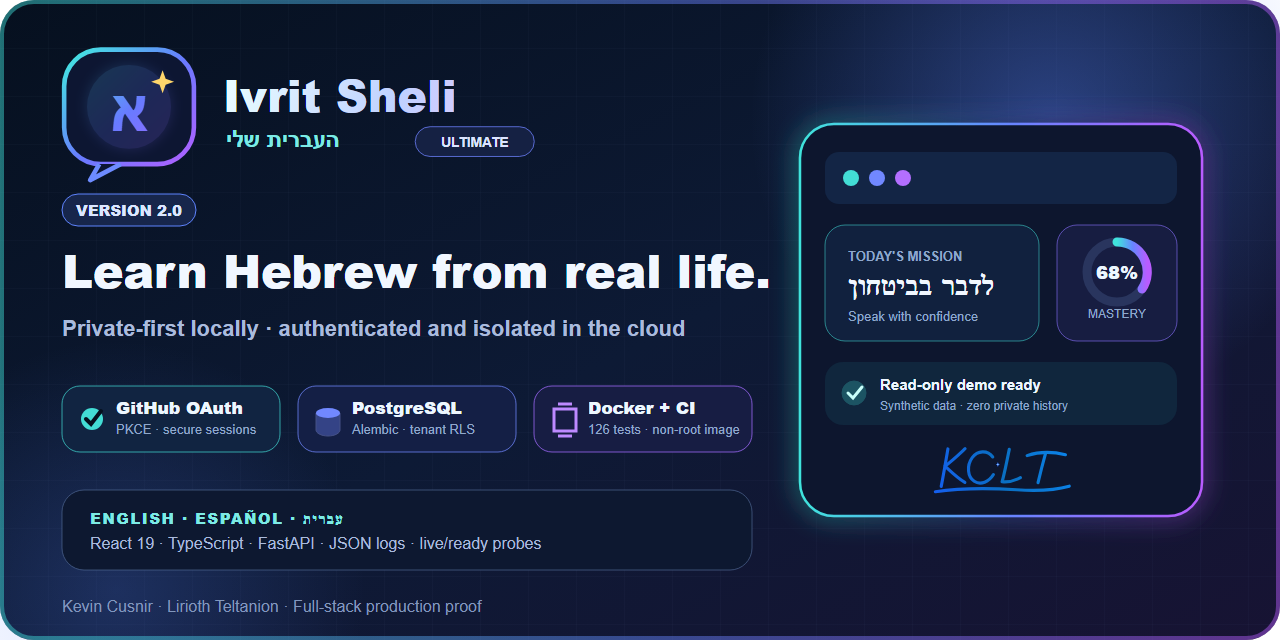
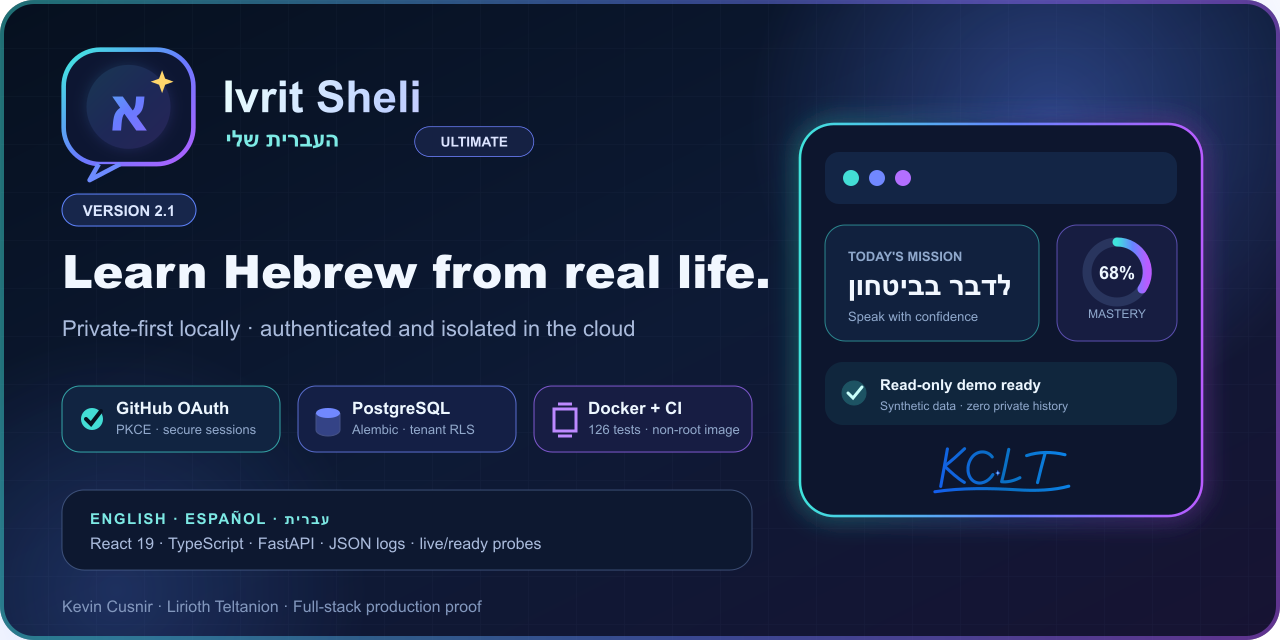
fix(release): ship Ivrit Sheli 2.1 Railway compatibility

diff --git a/frontend/src/App.tsx b/frontend/src/App.tsx
@@ -248,7 +248,7 @@ export default function App(): React.JSX.Element {
       <aside className="sidebar">
         <div className="brand-lockup">
           <img src="/icons/app-icon.svg" alt="" />
-          <div><strong>{t('appName')}</strong><span>CLOUD 2.0</span></div>
+          <div><strong>{t('appName')}</strong><span>CLOUD 2.1</span></div>
         </div>
         <nav className="side-nav" aria-label={t('primaryNavigation')}>
           {navigation.map((item) => (
@@ -271,7 +271,7 @@ export default function App(): React.JSX.Element {
         </div>
         <div className="sidebar-footer">
           <div className="privacy-mini"><Icon name="shield" size={17} /><span><strong>{auth.demo ? t('demoWorkspace') : localMode ? t('localWorkspace') : t('privateMode')}</strong><small>{auth.demo ? t('readOnlyDemo') : localMode ? t('localFirstStorage') : t('accountStorage')}</small></span></div>
-          <span className="version-label">v2.0.0</span>
+          <span className="version-label">v2.1.0</span>
         </div>
       </aside>
 

diff --git a/frontend/src/components/AuthGate.tsx b/frontend/src/components/AuthGate.tsx
@@ -27,7 +27,7 @@ export function AuthGate({ busy, error, onDemo, onRetry }: AuthGateProps): React
       <header className="auth-header">
         <a className="auth-brand" href="/" aria-label={`${t('appName')} — ${t('home')}`}>
           <img src="/icons/app-icon.svg" alt="" />
-          <span><strong>{t('appName')}</strong><small>CLOUD 2.0</small></span>
+          <span><strong>{t('appName')}</strong><small>CLOUD 2.1</small></span>
         </a>
         <div className="auth-header__actions">
           <div className="locale-switch auth-locale" aria-label={t('interfaceLanguage')}>
@@ -37,7 +37,7 @@ export function AuthGate({ busy, error, onDemo, onRetry }: AuthGateProps): React
               </button>
             ))}
           </div>
-          <span className="auth-version">v2.0.0</span>
+          <span className="auth-version">v2.1.0</span>
         </div>
       </header>
 

diff --git a/frontend/public/sw.js b/frontend/public/sw.js
@@ -4,7 +4,7 @@
 // Date: 2026-07-15 | TZ: Asia/Jerusalem
 // Notes: API responses and user data are deliberately never cached by the service worker.
 
-const CACHE_NAME = 'ivrit-sheli-shell-v2';
+const CACHE_NAME = 'ivrit-sheli-shell-v2.1.0';
 const CORE_ASSETS = ['/', '/manifest.webmanifest', '/icons/app-icon.svg', '/icons/app-icon-192.png', '/icons/app-icon-512.png'];
 const NETWORK_ONLY_PATHS = new Set(['/health/live', '/health/ready', '/version']);
 

diff --git a/frontend/index.html b/frontend/index.html
@@ -9,7 +9,7 @@
     <link rel="icon" type="image/svg+xml" href="/icons/app-icon.svg" />
     <link rel="apple-touch-icon" href="/icons/app-icon-192.png" />
     <link rel="manifest" href="/manifest.webmanifest" />
-    <title>Ivrit Sheli Cloud 2.0 — העברית שלי</title>
+    <title>Ivrit Sheli Cloud 2.1 — העברית שלי</title>
   </head>
   <body>
     <div id="root"></div>

diff --git a/frontend/src/components/SettingsPanel.tsx b/frontend/src/components/SettingsPanel.tsx
@@ -66,7 +66,7 @@ export function SettingsPanel({
         diagnostics: {
           user_agent: navigator.userAgent,
           viewport: `${window.innerWidth}x${window.innerHeight}`,
-          app_version: '2.0.0',
+          app_version: '2.1.0',
           online: navigator.onLine,
           locale,
           route: window.location.pathname,

diff --git a/scripts/verify_package.py b/scripts/verify_package.py
@@ -14,6 +14,11 @@ import sys
 from pathlib import Path
 from xml.etree import ElementTree
 
+try:
+    import tomllib
+except ModuleNotFoundError:  # pragma: no cover - Python 3.10 CI uses the pinned backport.
+    import tomli as tomllib
+
 ROOT = Path(__file__).resolve().parents[1]
 
 REQUIRED_FILES = (
@@ -129,6 +134,37 @@ def verify_svg_assets() -> list[str]:
     return failures
 
 
+def verify_railway_config() -> list[str]:
+    """Validate deploy timing values with a real TOML parser.
+
+    Returns:
+        Human-readable Railway configuration failures.
+
+    Example:
+        >>> isinstance(verify_railway_config(), list)
+        True
+    """
+    path = ROOT / "railway.toml"
+    try:
+        config = tomllib.loads(path.read_text(encoding="utf-8"))
+    except (OSError, tomllib.TOMLDecodeError) as error:
+        return [f"railway.toml: {error}"]
+
+    deploy = config.get("deploy")
+    if not isinstance(deploy, dict):
+        return ["railway.toml: missing [deploy] table"]
+
+    failures: list[str] = []
+    expected = {"overlapSeconds": 10, "drainingSeconds": 15}
+    for key, expected_value in expected.items():
+        value = deploy.get(key)
+        if type(value) is not int:  # bool is also invalid even though it subclasses int.
+            failures.append(f"railway.toml: deploy.{key} must be an integer, got {type(value).__name__}")
+        elif value != expected_value:
+            failures.append(f"railway.toml: deploy.{key} must be {expected_value}, got {value}")
+    return failures
+
+
 def verify_secret_hygiene() -> list[str]:
     """Scan source/config text for common committed credential shapes.
 
@@ -197,6 +233,7 @@ def main() -> int:
         "missing_files": verify_required_files(),
         "invalid_json": verify_json_files(),
         "invalid_svg": verify_svg_assets(),
+        "invalid_railway_config": verify_railway_config(),
         "possible_secrets": verify_secret_hygiene(),
         "broken_readme_links": verify_documentation_links(),
     }

diff --git a/backend/src/ivrit_sheli/auth.py b/backend/src/ivrit_sheli/auth.py
@@ -65,7 +65,7 @@ class GitHubOAuthClient:
         """Exchange a one-use code and return only safe profile fields."""
         token_response = requests.post(
             self.TOKEN_URL,
-            headers={"Accept": "application/json", "User-Agent": "Ivrit-Sheli/2.0"},
+            headers={"Accept": "application/json", "User-Agent": "Ivrit-Sheli/2.1.0"},
             data={
                 "client_id": settings.github_client_id,
                 "client_secret": settings.github_client_secret,
@@ -85,7 +85,7 @@ class GitHubOAuthClient:
             headers={
                 "Accept": "application/vnd.github+json",
                 "Authorization": f"Bearer {access_token}",
-                "User-Agent": "Ivrit-Sheli/2.0",
+                "User-Agent": "Ivrit-Sheli/2.1.0",
                 "X-GitHub-Api-Version": "2022-11-28",
             },
             timeout=12,

diff --git a/backend/tests/test_cloud_auth.py b/backend/tests/test_cloud_auth.py
@@ -311,12 +311,12 @@ def test_operational_endpoints_report_version_storage_and_readiness(tmp_path: Pa
             oauth_client=FakeGitHubOAuth(),
         )
     ) as client:
-        assert client.get("/health/live").json()["version"] == "2.0.0"
+        assert client.get("/health/live").json()["version"] == "2.1.0"
         ready = client.get("/health/ready")
         assert ready.status_code == 200
         assert ready.json()["checks"]["postgresql"] is True
         version = client.get("/version").json()
-        assert version["version"] == "2.0.0"
+        assert version["version"] == "2.1.0"
         assert version["storage"] == "postgresql"
 
 

diff --git a/backend/tests/test_structured_logging.py b/backend/tests/test_structured_logging.py
@@ -30,7 +30,7 @@ def test_json_formatter_has_operational_schema_and_scrubs_literal_secrets() -> N
     record.route = "/api/v1/items"
     record.status = 201
     record.duration_ms = 4.2
-    record.version = "2.0.0"
+    record.version = "2.1.0"
 
     rendered = JsonFormatter().format(record)
     payload = json.loads(rendered)

diff --git a/backend/src/ivrit_sheli/__init__.py b/backend/src/ivrit_sheli/__init__.py
@@ -8,4 +8,4 @@ Notes: Minimal deps; comments in ENGLISH; emojis sparingly.
 
 __all__ = ["__version__"]
 
-__version__ = "2.0.0"
+__version__ = "2.1.0"

diff --git a/README.md b/README.md
@@ -1,7 +1,7 @@
 <div align="center">
   <img src="assets/brand/logo.svg" alt="Ivrit Sheli Ultimate" width="680" />
 
-  <h1>Ivrit Sheli 2.0 Ultimate — העברית שלי</h1>
+  <h1>Ivrit Sheli 2.1 Ultimate — העברית שלי</h1>
   <p><strong>A private-first, authenticated, trilingual Hebrew-learning operating system built from real life.</strong></p>
 
   <p>
@@ -48,11 +48,15 @@ Most language products make every learner follow the same path. Ivrit Sheli does
 
 The system tracks what you recognize, what you can produce, where you hesitate, which grammar errors repeat, which situations matter, and which learning mode works best. Recommendations are explainable: the app tells you *why* it selected a word, exercise, mission, or speaking drill.
 
+## What changed in 2.1 🚆
+
+Version 2.1 is the deployment-compatibility release. It corrects Railway's deploy timing fields to their required numeric TOML types, synchronizes runtime and visible release metadata, rotates the PWA shell cache, and keeps the production boundary ready for managed PostgreSQL and GitHub OAuth. A public URL is still not claimed until TLS, readiness, version, OAuth, persistence, and redacted logs are verified on the live service.
+
 ## What changed in 2.0 🚀
 
 Version 2.0 turns the complete local-first learning system into a deployment-ready, production-shaped full-stack product without sacrificing its private offline path.
 
-![Ivrit Sheli 2.0 cloud architecture](assets/readme/cloud-architecture.svg)
+![Ivrit Sheli 2.1 cloud architecture](assets/readme/cloud-architecture.svg)
 
 | Production capability | Verifiable implementation |
 |---|---|
@@ -288,7 +292,7 @@ Included achievement families:
 
 ## Test everything
 
-The 2.0 verification baseline is **109 backend tests + 17 frontend tests = 126 passing automated tests**. The local backend run reports 108 passed with the credential-gated PostgreSQL case skipped; the dedicated PostgreSQL 17 job runs all three database-boundary tests and raises the unique backend total to 109. The integration gate is not replaced by SQLite or an in-memory fake.
+The 2.1 verification baseline is **109 backend tests + 17 frontend tests = 126 passing automated tests**. The local backend run reports 108 passed with the credential-gated PostgreSQL case skipped; the dedicated PostgreSQL 17 job runs all three database-boundary tests and raises the unique backend total to 109. The integration gate is not replaced by SQLite or an in-memory fake.
 
 ```bash
 ./scripts/test-all.sh
@@ -367,7 +371,7 @@ IvritSheli/
 
 ## Project status
 
-Version 2.0 is a deployment-ready, production-shaped dual-mode product: the offline path, authenticated API, PostgreSQL migrations and isolation, Docker image, trilingual UI and provider adapters are reproducibly testable. A public Railway URL is not claimed until its TLS, OAuth callback, readiness, version, and logs are verified. Live OpenAI and Google calls still require the user's own credentials and consent, so they are never silently exercised during CI or packaging.
+Version 2.1 is a deployment-ready, production-shaped dual-mode product: the offline path, authenticated API, PostgreSQL migrations and isolation, Docker image, trilingual UI, provider adapters, and Railway configuration are reproducibly testable. A public Railway URL is not claimed until its TLS, OAuth callback, readiness, version, persistence, and logs are verified. Live OpenAI and Google calls still require the user's own credentials and consent, so they are never silently exercised during CI or packaging.
 
 Passing tests and healthy local production-image checks materially reduce risk but do not prove that software is defect-free. Operational limits, credential-dependent checks and restore requirements are documented explicitly rather than hidden behind a perfect-score claim.
 

diff --git a/PACKAGE_MANIFEST.md b/PACKAGE_MANIFEST.md
@@ -1,9 +1,9 @@
-# Ivrit Sheli Ultimate 2.0.0 — Package Manifest
+# Ivrit Sheli Ultimate 2.1.0 — Package Manifest
 
 ## Release identity
 
 - Product: Ivrit Sheli Ultimate — העברית שלי
-- Release: 2.0.0
+- Release: 2.1.0
 - Date: 2026-07-16
 - Time zone: Asia/Jerusalem
 - Author: Kevin “Lirioth” Cusnir
@@ -53,7 +53,7 @@
 - Windows one-click daily launcher plus PowerShell setup and development scripts.
 - Multi-stage non-root Dockerfile and a PostgreSQL Docker Compose integration stack with digest-pinned base images.
 - GitHub Actions CI with local-first, real-PostgreSQL, production-image, CodeQL, and dependency-update gates.
-- Railway deployment-ready configuration with a separate pre-deploy provisioner and readiness probe.
+- Railway deployment-ready configuration with a separate pre-deploy provisioner, readiness probe, and schema-compatible numeric deploy timing controls.
 - Environment template.
 - Security, contribution, deployment, third-party, and test documentation.
 
@@ -90,6 +90,6 @@ No live, personal, or provider credentials are included. The repository contains
 - pip-audit and npm production audit: 0 known vulnerabilities on 2026-07-16.
 - Package asset/link verifier: 52 required files passed.
 
-No live Railway URL, production GitHub OAuth exchange, external provider call, or managed backup/restore drill is claimed by this manifest. The package is deployment-ready pending those operator checks.
+No live Railway URL, production GitHub OAuth exchange, external provider call, or managed backup/restore drill is claimed by this manifest. The 2.1 package corrects the Railway configuration type mismatch and is deployment-ready pending those operator checks.
 
 See `TEST_REPORT.md` for exact commands and limitations.
